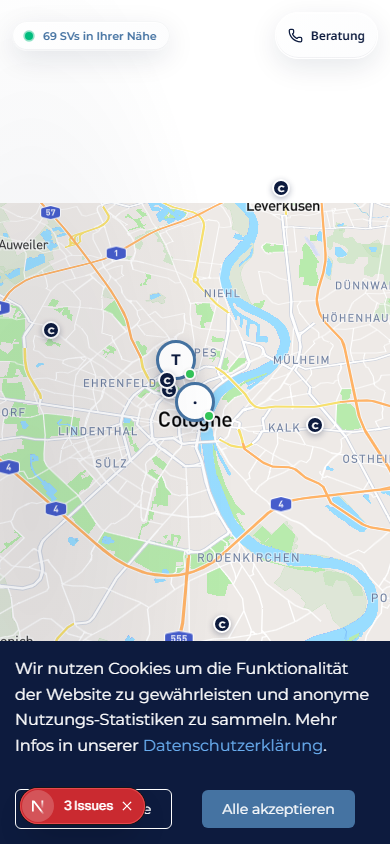
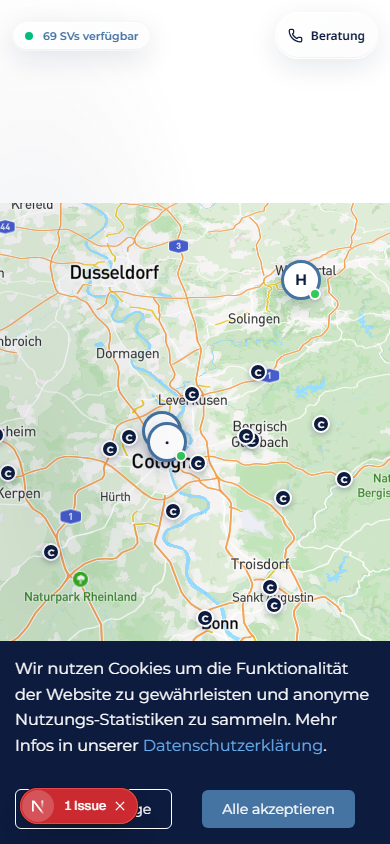
feat(marketing-karte): Google-Bewertungs-Backfill + Mapbox-Color-Fix (#1137)
Folge-Ticket zum Privacy-Refactor (#1127): die anonymisierten Popups auf
/gutachter-finden zeigten keine Sterne weil google_bewertungen_cache leer
war (0 Einträge für die 5 paket=standard SVs) und profiles.google_place_id
nicht gesetzt war.

Backfill-Script (scripts/backfill-google-bewertungen.mjs):
* Lädt paket='standard' aktive SVs ohne google_place_id
* Find-Place-from-Text via firmenname + adresse → google_place_id in profiles
* Places-Details-Fetch → rating + count + photo → upsert google_bewertungen_cache
* Idempotent (skipt Profile mit gesetzter place_id; FORCE=1 für override)
* Sanity-Checks gegen Fehlmatches:
  - Adresse muss 5-stellige PLZ enthalten (sonst matched Google Random-POIs:
    "Köln Test" → Smoke-Vape-Shop am Neumarkt)
  - Test/Smoke/Demo-Einträge im Firmennamen werden geskipt
  - Name-Similarity: gefundener Google-Name muss einen Token aus unserem
    Firmennamen enthalten (sonst Fehlmatch)
* Rate-Limit 200ms zwischen API-Calls (~5 req/s, unter Google 10/s)

Apply (lokal, 14.05.2026):
  Ingenieurbüro Cakmak  → ⭐ 5.0 (45 Bewertungen)
  Kfz-SV-Büro Fronius   → ⭐ 5.0  (3 Bewertungen)
  KFZ-SV-Büro Gall      → ⭐ 5.0 (21 Bewertungen)
  Test Aaron / Smoke SV → korrekt geskipt (kein Google-Lookup)

Mapbox-Color-Fix (GutachterFinderMapClient.tsx):
* COL_ONDO/COL_NAVY zurück auf raw hex statt CSS var() — Mapbox-Layer-Paint
  (fill-color, line-color) akzeptiert keine CSS-Variablen, das führte zum
[…]

diff --git a/tests/e2e/flows/audit-gutachter-finder-screens.spec.ts b/tests/e2e/flows/audit-gutachter-finder-screens.spec.ts
@@ -8,8 +8,9 @@ test.describe.configure({ mode: 'serial' })
 test.setTimeout(180_000)
 
 test('Karte Ist-Zustand: Diagnose + Screenshots', async ({ page }) => {
-  await page.context().grantPermissions(['geolocation'])
-  await page.context().setGeolocation({ latitude: 50.9375, longitude: 6.9603 })
+  // KEINE Geolocation → Karte bleibt auf DEFAULT_CENTER NRW-Mittelpunkt + zoom 8.5
+  // → alle paket=standard SVs (Köln, Remscheid, Heinsberg) sind im Viewport
+  await page.context().clearPermissions()
 
   page.on('console', (m) => {
     console.log(`[browser ${m.type()}]`, m.text())
@@ -23,6 +24,7 @@ test('Karte Ist-Zustand: Diagnose + Screenshots', async ({ page }) => {
   })
 
   await page.waitForTimeout(8000)
+
 
   // Diagnose: zähle klickbare Marker (.sv-marker-inner) vs Dead-Pins (.sv-deadpin)
   const diag = await page.evaluate(() => {
@@ -71,43 +73,76 @@ test('Karte Ist-Zustand: Diagnose + Screenshots', async ({ page }) => {
   const totalMarkers = await innerLocators.count()
   console.log(`[diag] sv-marker-inner Locator-Count: ${totalMarkers}`)
 
-  let proShot = false
-  let leadShot = false
-  for (let i = 0; i < totalMarkers && (!proShot || !leadShot); i++) {
+  // Dump aller Marker-Initialen für Debug
+  const allInitials = await page.evaluate(() => {
+    return Array.from(document.querySelectorAll('.sv-marker-inner')).map((el, i) => {
+      const initialeBox = el.querySelector('div > div') as HTMLElement | null
+      const r = el.getBoundingClientRect()
+      return {
+        i,
+        initiale: initialeBox?.firstChild?.textContent?.trim().slice(0, 2) ?? '?',
+        inView: r.top > 0 && r.top < window.innerHeight && r.left > 0 && r.left < window.innerWidth,
+      }
+    })
+  })
+  console.log('[diag] Alle klickbaren Marker:', JSON.stringify(allInitials))
+
+  // Bevorzuge einen Marker dessen Popup Sterne enthält (echter SV mit Cache)
+  let popupMitSternen = false
+  let popupOhneSterne = false
+  for (let i = 0; i < totalMarkers && (!popupMitSternen || !popupOhneSterne); i++) {
     const el = innerLocators.nth(i)
     const isInView = await el.evaluate((node) => {
       const r = (node as HTMLElement).getBoundingClientRect()
-      return r.top > 30 && r.top < window.innerHeight - 60 && r.left > 30 && r.left < window.innerWidth - 30
+      // Erlaube auch knapp außerhalb — Mapbox-Marker können bei dichter
+      // Karte überlappen, scrollIntoViewIfNeeded scrollt sie rein
+      return r.top > -50 && r.top < window.innerHeight + 50 && r.left > -50 && r.left < window.innerWidth + 50
     }).catch(() => false)
     if (!isInView) continue
-
-    const isPro = await el.evaluate((node) => !!(node as HTMLElement).querySelector('div[style*="F3C053"]'))
-    if (isPro && proShot) continue
-    if (!isPro && leadShot) continue
 
     try {
       await el.scrollIntoViewIfNeeded()
       await el.click({ force: true, timeout: 4000 })
       await page.waitForTimeout(900)
       const popupCount = await page.locator('.mapboxgl-popup').count()
-      if (popupCount > 0) {
-        const tag = isPro ? 'pro' : 'lead'
-        await page.screenshot({
-          path: path.join(SCREENS_DIR, `02-popup-${tag}.png`),
-          clip: undefined,
-        })
-        if (isPro) proShot = true
-        else leadShot = true
-        await page.locator('.mapboxgl-popup-close-button').first().click({ timeout: 2000 }).catch(() => {})
-        await page.waitForTimeout(400)
-      } else {
-        console.log(`[diag] Marker ${i} (pro=${isPro}) klick → kein Popup`)
+      if (popupCount === 0) continue
+      await page.waitForTimeout(1200)
+      const popupInfo = await page.evaluate(() => {
+        const allPopups = Array.from(document.querySelectorAll('.mapboxgl-popup'))
+        const visible = allPopups.find((p) => {
+          const r = (p as HTMLElement).getBoundingClientRect()
+          return r.width > 50 && r.height > 30
+        }) ?? allPopups[0]
+        const text = visible?.textContent ?? ''
+        const html = visible?.innerHTML ?? ''
+        const contentEl = visible?.querySelector('.mapboxgl-popup-content')
+        const contentHTML = contentEl?.innerHTML ?? '(none)'
+        return {
+          count: allPopups.length,
+          text: text.slice(0, 200),
+          htmlLen: html.length,
+          contentLen: contentHTML.length,
+          contentSnippet: contentHTML.slice(0, 400),
+          hasStars: /★/.test(text) && /Bewertung/.test(text),
+        }
+      })
+      console.log(`[diag] Marker ${i}: popups=${popupInfo.count} contentLen=${popupInfo.contentLen} text.len=${popupInfo.text.length}`)
+      console.log(`[diag] Marker ${i}: text="${popupInfo.text.replace(/\s+/g, ' ').trim()}"`)
+      const hasStars = popupInfo.hasStars
+      if (hasStars && !popupMitSternen) {
+        await page.screenshot({ path: path.join(SCREENS_DIR, '02-popup-mit-sternen.png') })
+        popupMitSternen = true
+      } else if (!hasStars && !popupOhneSterne) {
+        await page.screenshot({ path: path.join(SCREENS_DIR, '02-popup-ohne-sterne.png') })
+        popupOhneSterne = true
       }
+      await page.locator('.mapboxgl-popup-close-button').first().click({ timeout: 2000 }).catch(() => {})
+      await page.waitForTimeout(400)
     } catch (err) {
       console.log(`[diag] Marker ${i} klick fail:`, (err as Error).message.slice(0, 80))
     }
   }
-  console.log(`[diag] popups captured: pro=${proShot} lead=${leadShot}`)
+  console.log(`[diag] popups captured: mit-sternen=${popupMitSternen} ohne-sterne=${popupOhneSterne}`)
 
   // Mobile
   await page.setViewportSize({ width: 390, height: 844 })

diff --git a/src/app/gutachter-finden/GutachterFinderMapClient.tsx b/src/app/gutachter-finden/GutachterFinderMapClient.tsx
@@ -49,8 +49,12 @@ const USER_LOCATION_ZOOM = 10.5
 // AAR-906: Marker-Colors über CSS-Vars (Whitelabel-fähig, Claimondo-Fallback).
 // Mapbox baut die Marker via innerHTML aus Template-Literals — `var()`-Strings
 // werden vom Browser beim Style-Resolution-Pass evaluiert.
-const COL_ONDO = 'var(--map-pin-accent, #4573A2)'
-const COL_NAVY = 'var(--map-pin-exact, #0D1B3E)'
+// Mapbox-Layer-Paint (fill-color, line-color) akzeptiert NUR raw color-strings,
+// keine CSS `var()`. Token-Audit-Skip-Header oben erlaubt diese hex literals.
+// Whitelabel-Branding läuft an anderer Stelle (var(--brand-*) in Tailwind-
+// Klassen + globals.css-Aliase auf claimondo-* Tokens).
+const COL_ONDO = '#4573A2'
+const COL_NAVY = '#0D1B3E'
 
 // Generischer Dead-Pin (Claimondo-Logo-Look) — nicht klickbar, kein Hover,
 // kein Popup. Wird für SVs mit paket!='standard' UND alle sv_leads